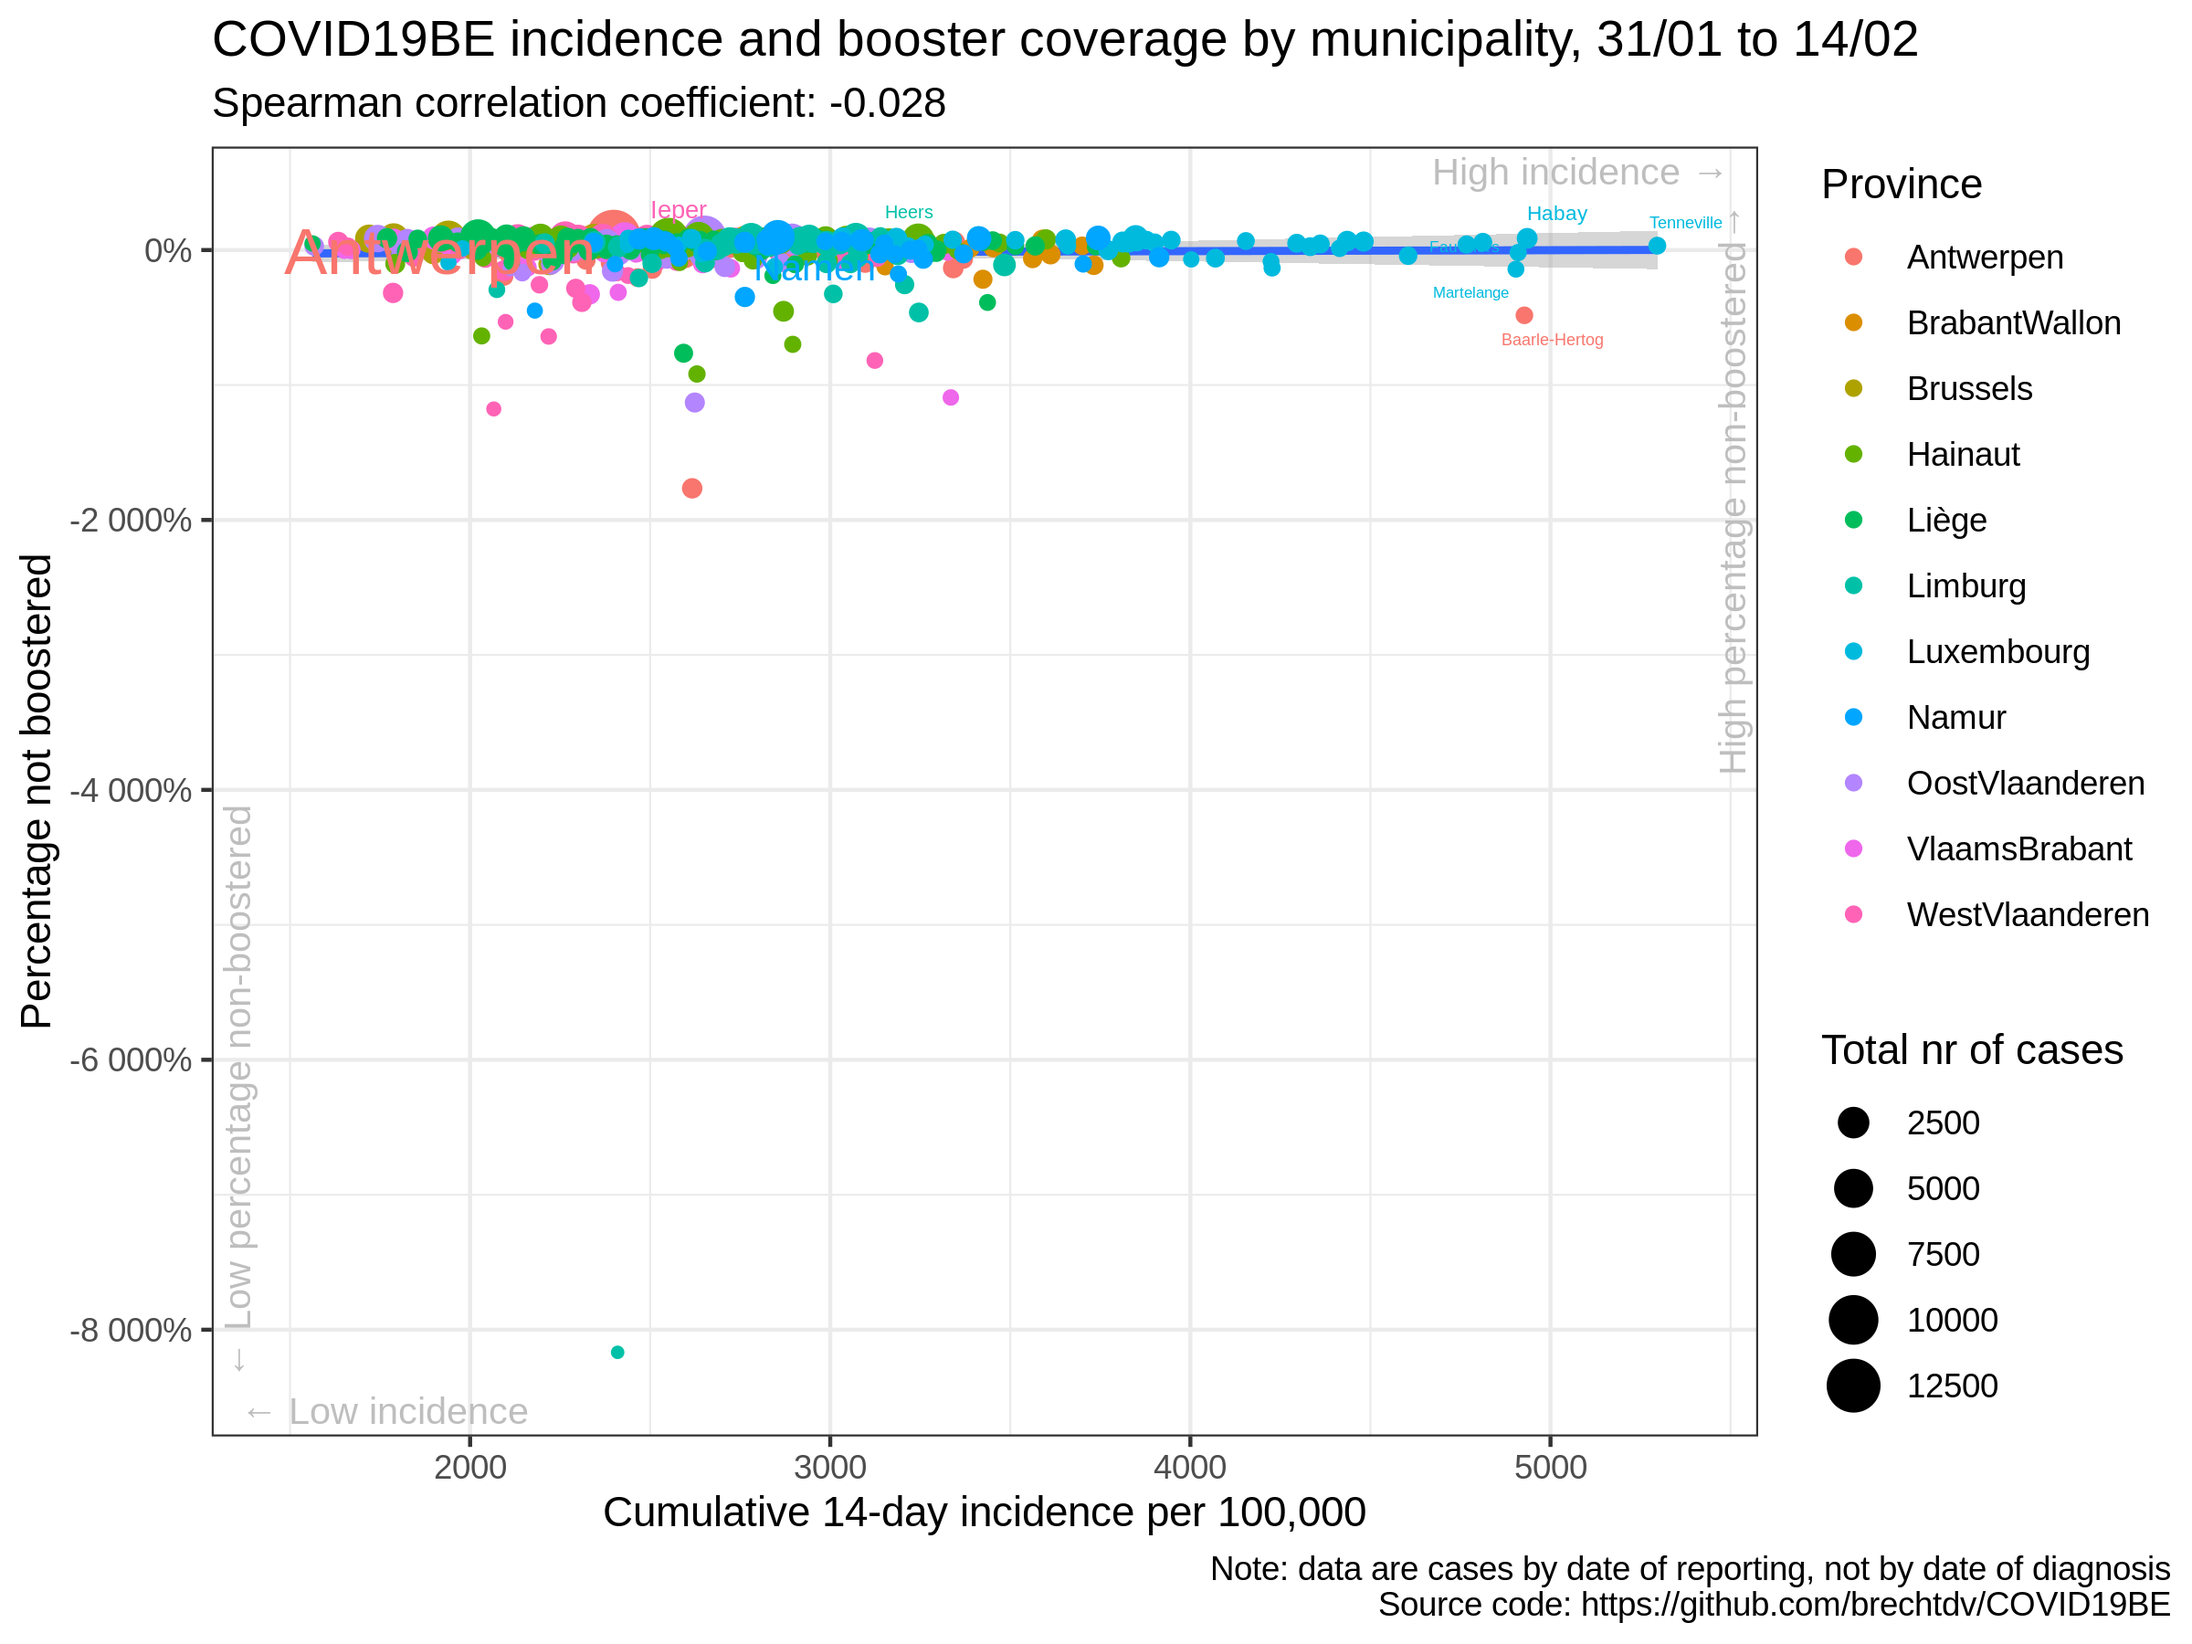
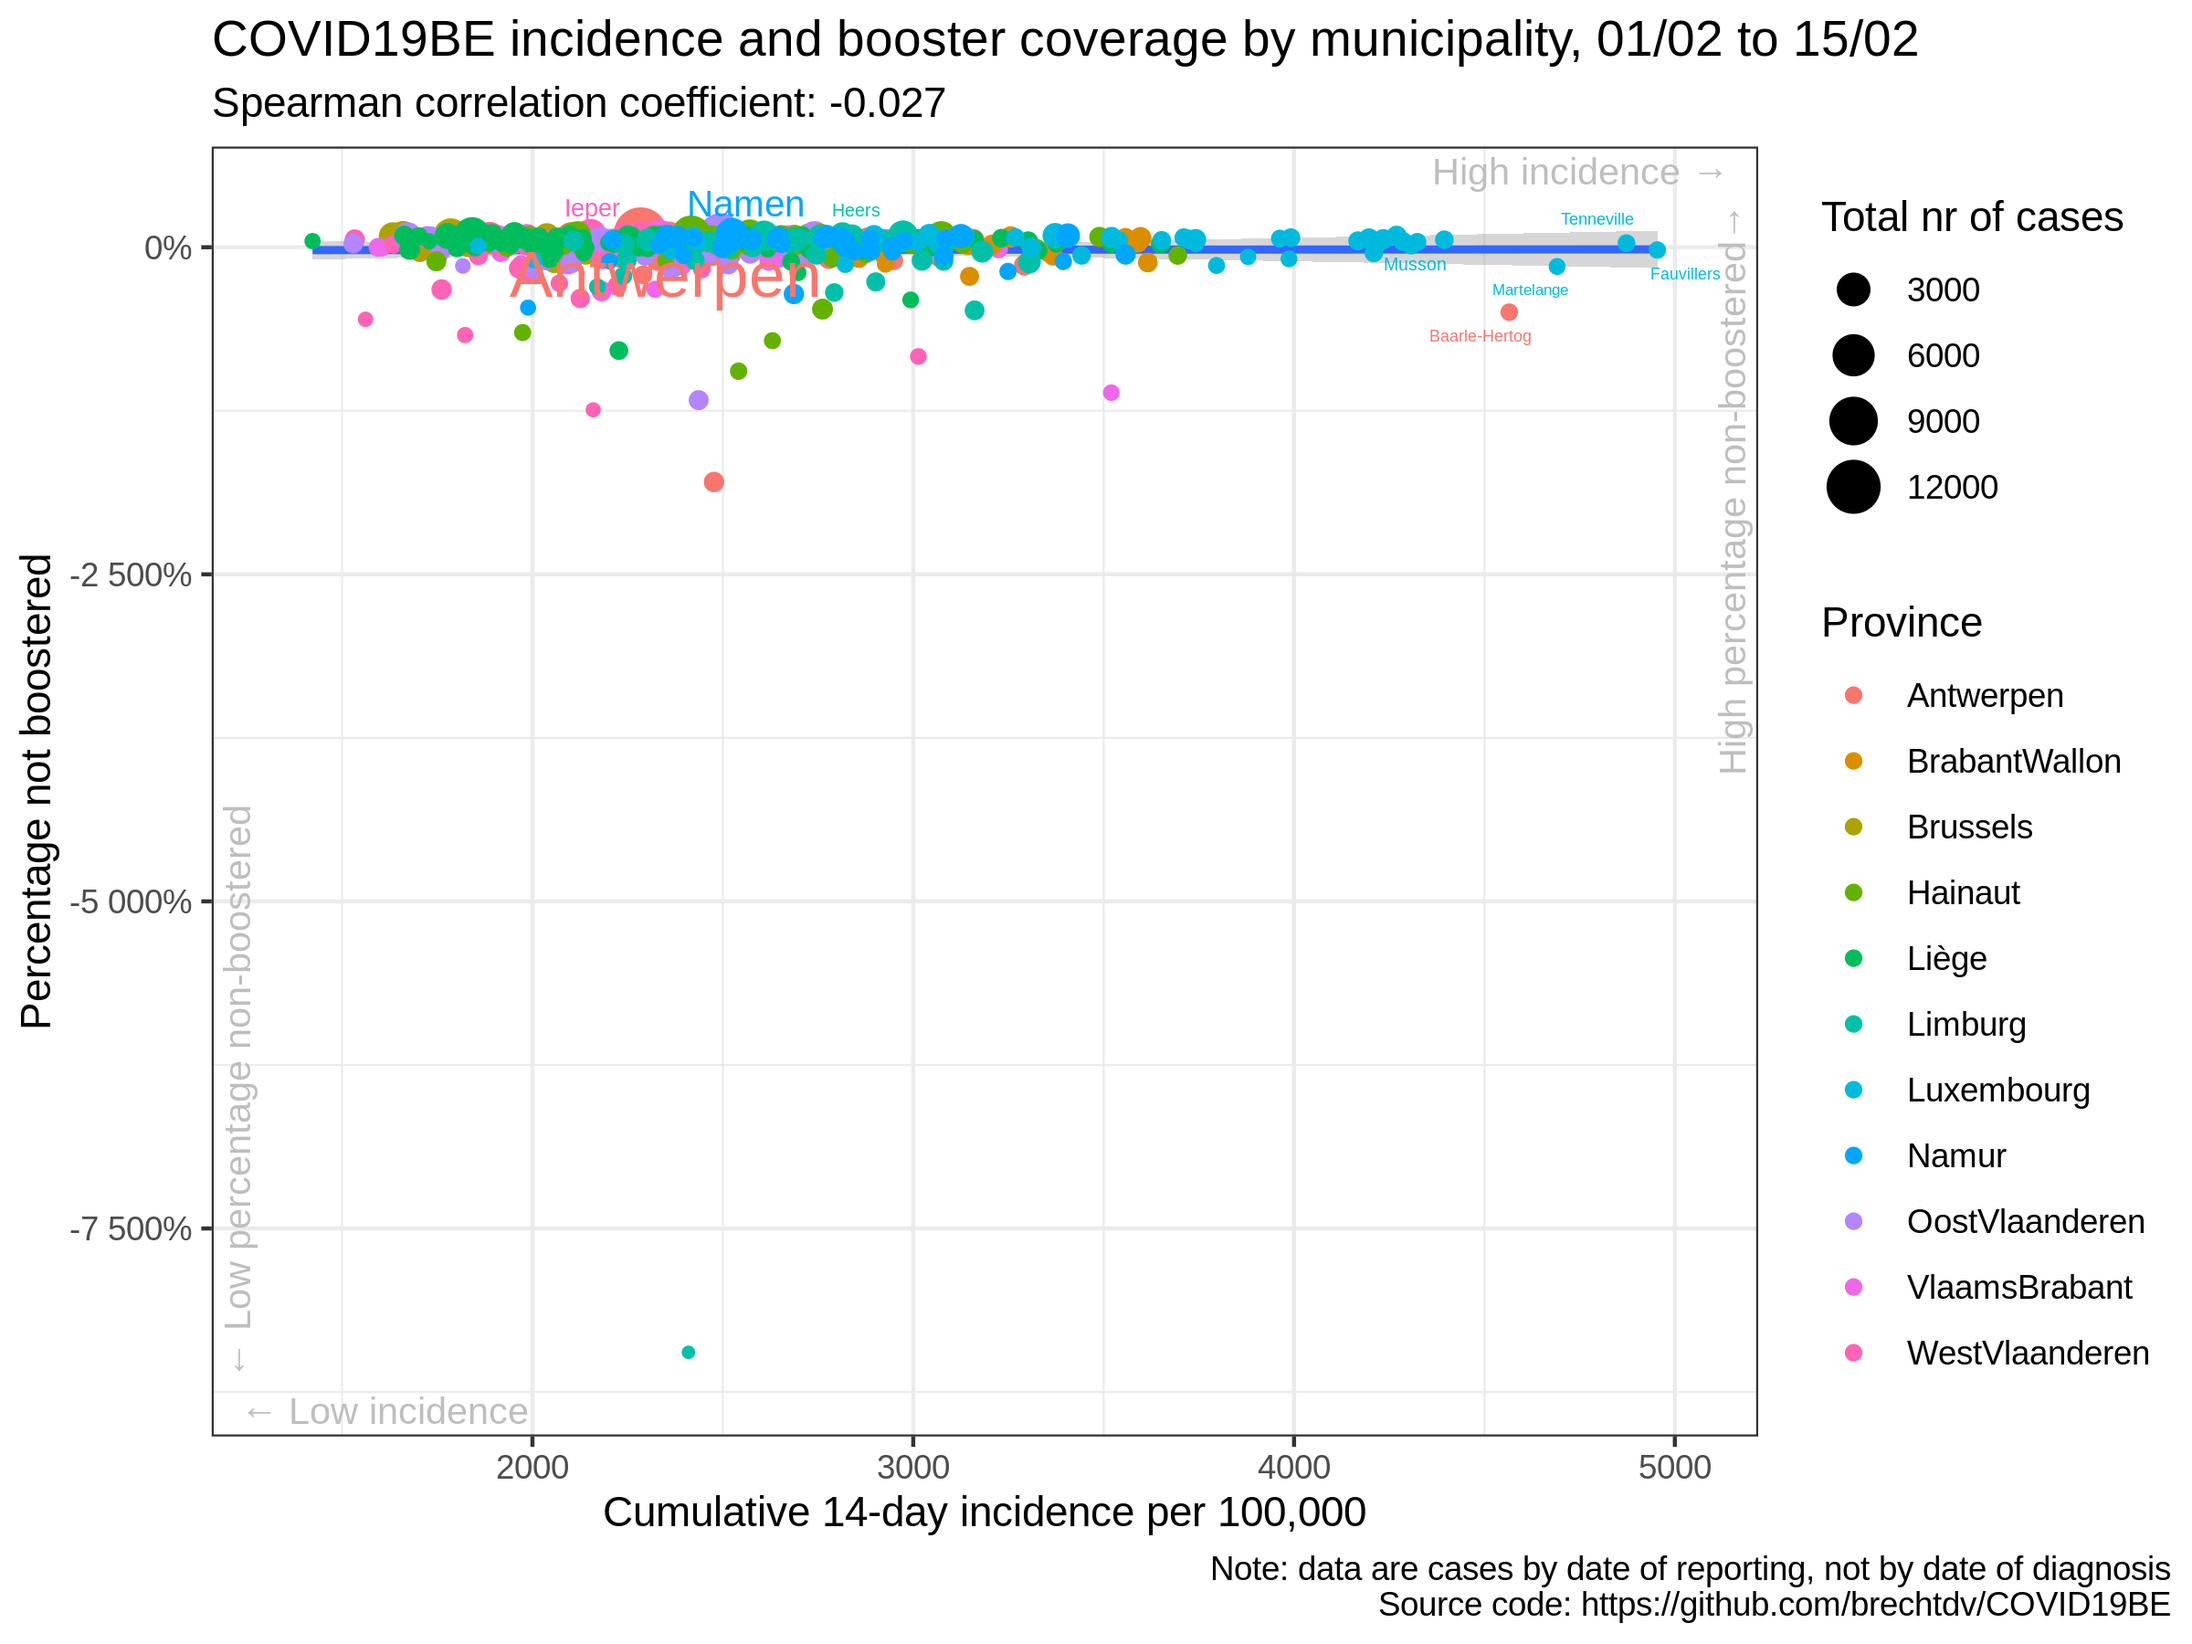
update situation

diff --git a/vaccination/README.md b/vaccination/README.md
@@ -17,35 +17,35 @@
 
 |                | estimate.rho | p.value |
 | :------------- | -----------: | ------: |
-| Antwerpen      |      \-0.083 |   0.498 |
-| BrabantWallon  |      \-0.444 |   0.021 |
-| Brussels       |      \-0.265 |   0.272 |
-| Hainaut        |        0.007 |   0.957 |
-| Liège          |      \-0.200 |   0.068 |
-| Limburg        |      \-0.005 |   0.976 |
-| Luxembourg     |      \-0.142 |   0.357 |
-| Namur          |      \-0.038 |   0.824 |
-| OostVlaanderen |        0.093 |   0.480 |
-| VlaamsBrabant  |      \-0.201 |   0.109 |
-| WestVlaanderen |        0.126 |   0.321 |
-| Belgium        |      \-0.037 |   0.370 |
+| Antwerpen      |      \-0.049 |   0.691 |
+| BrabantWallon  |      \-0.441 |   0.022 |
+| Brussels       |      \-0.319 |   0.182 |
+| Hainaut        |        0.017 |   0.887 |
+| Liège          |      \-0.172 |   0.117 |
+| Limburg        |        0.015 |   0.923 |
+| Luxembourg     |      \-0.132 |   0.392 |
+| Namur          |      \-0.062 |   0.713 |
+| OostVlaanderen |        0.098 |   0.457 |
+| VlaamsBrabant  |      \-0.183 |   0.144 |
+| WestVlaanderen |        0.133 |   0.295 |
+| Belgium        |      \-0.034 |   0.419 |
 
 ### Correlation cumulative incidence vs booster rate
 
 |                | estimate.rho | p.value |
 | :------------- | -----------: | ------: |
-| Antwerpen      |      \-0.079 |   0.519 |
-| BrabantWallon  |      \-0.452 |   0.019 |
-| Brussels       |      \-0.291 |   0.226 |
-| Hainaut        |        0.015 |   0.899 |
-| Liège          |      \-0.198 |   0.071 |
-| Limburg        |      \-0.013 |   0.937 |
-| Luxembourg     |      \-0.143 |   0.353 |
-| Namur          |      \-0.030 |   0.858 |
-| OostVlaanderen |        0.098 |   0.454 |
-| VlaamsBrabant  |      \-0.233 |   0.062 |
-| WestVlaanderen |        0.128 |   0.314 |
-| Belgium        |      \-0.028 |   0.508 |
+| Antwerpen      |      \-0.053 |   0.665 |
+| BrabantWallon  |      \-0.448 |   0.020 |
+| Brussels       |      \-0.368 |   0.121 |
+| Hainaut        |        0.019 |   0.875 |
+| Liège          |      \-0.167 |   0.129 |
+| Limburg        |      \-0.006 |   0.971 |
+| Luxembourg     |      \-0.136 |   0.378 |
+| Namur          |      \-0.058 |   0.734 |
+| OostVlaanderen |        0.095 |   0.467 |
+| VlaamsBrabant  |      \-0.211 |   0.092 |
+| WestVlaanderen |        0.128 |   0.313 |
+| Belgium        |      \-0.027 |   0.513 |
 
 ### Data source
 
